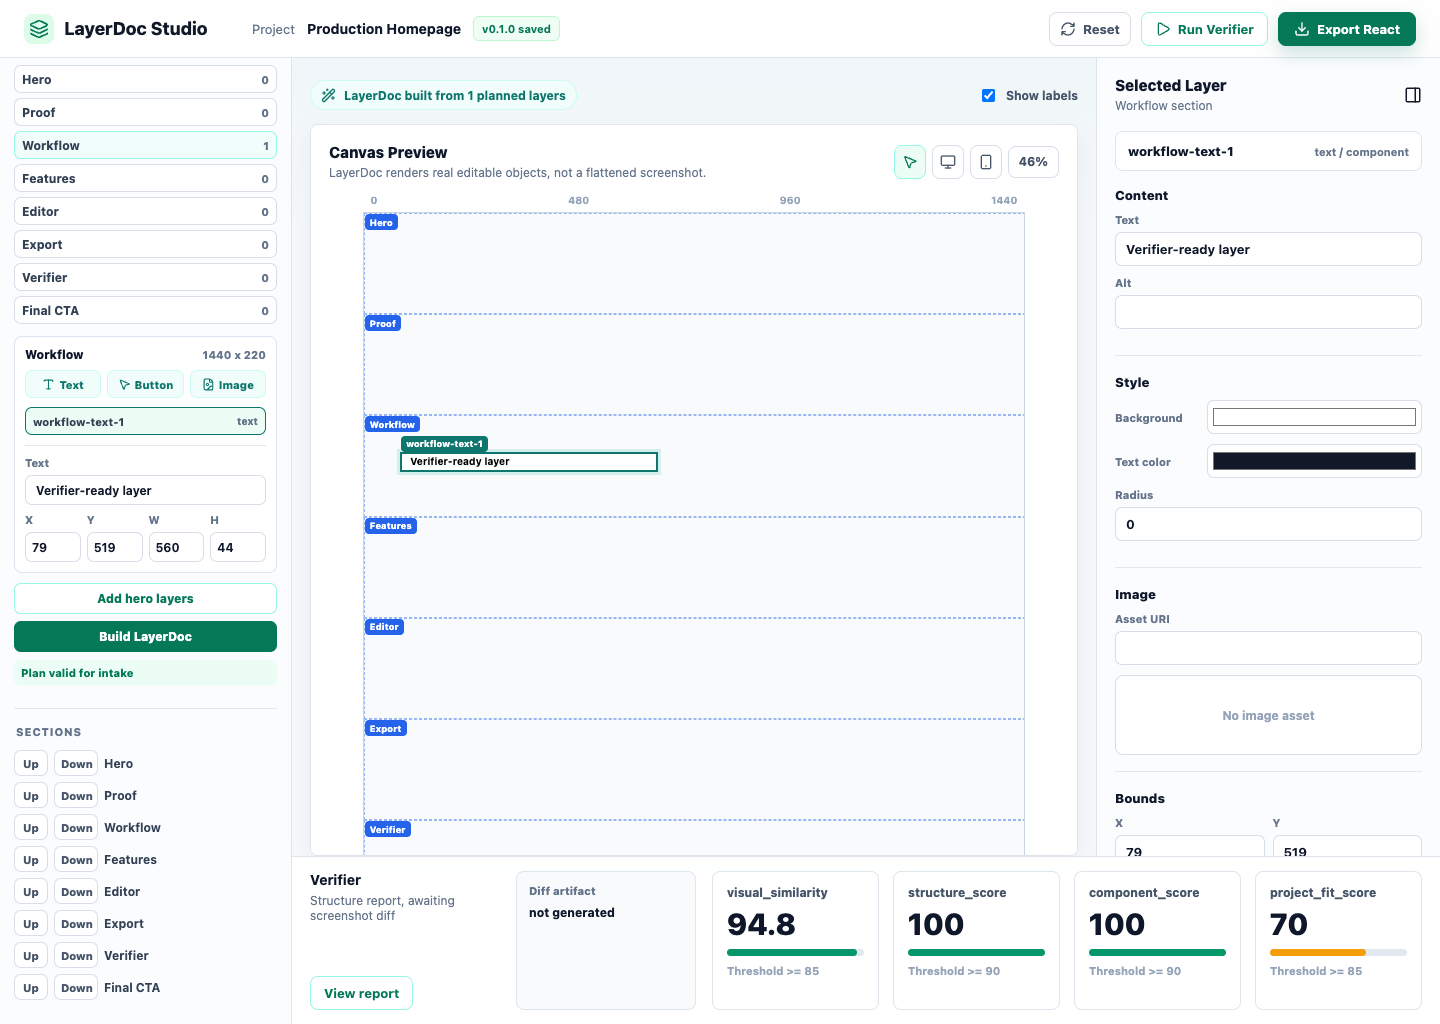
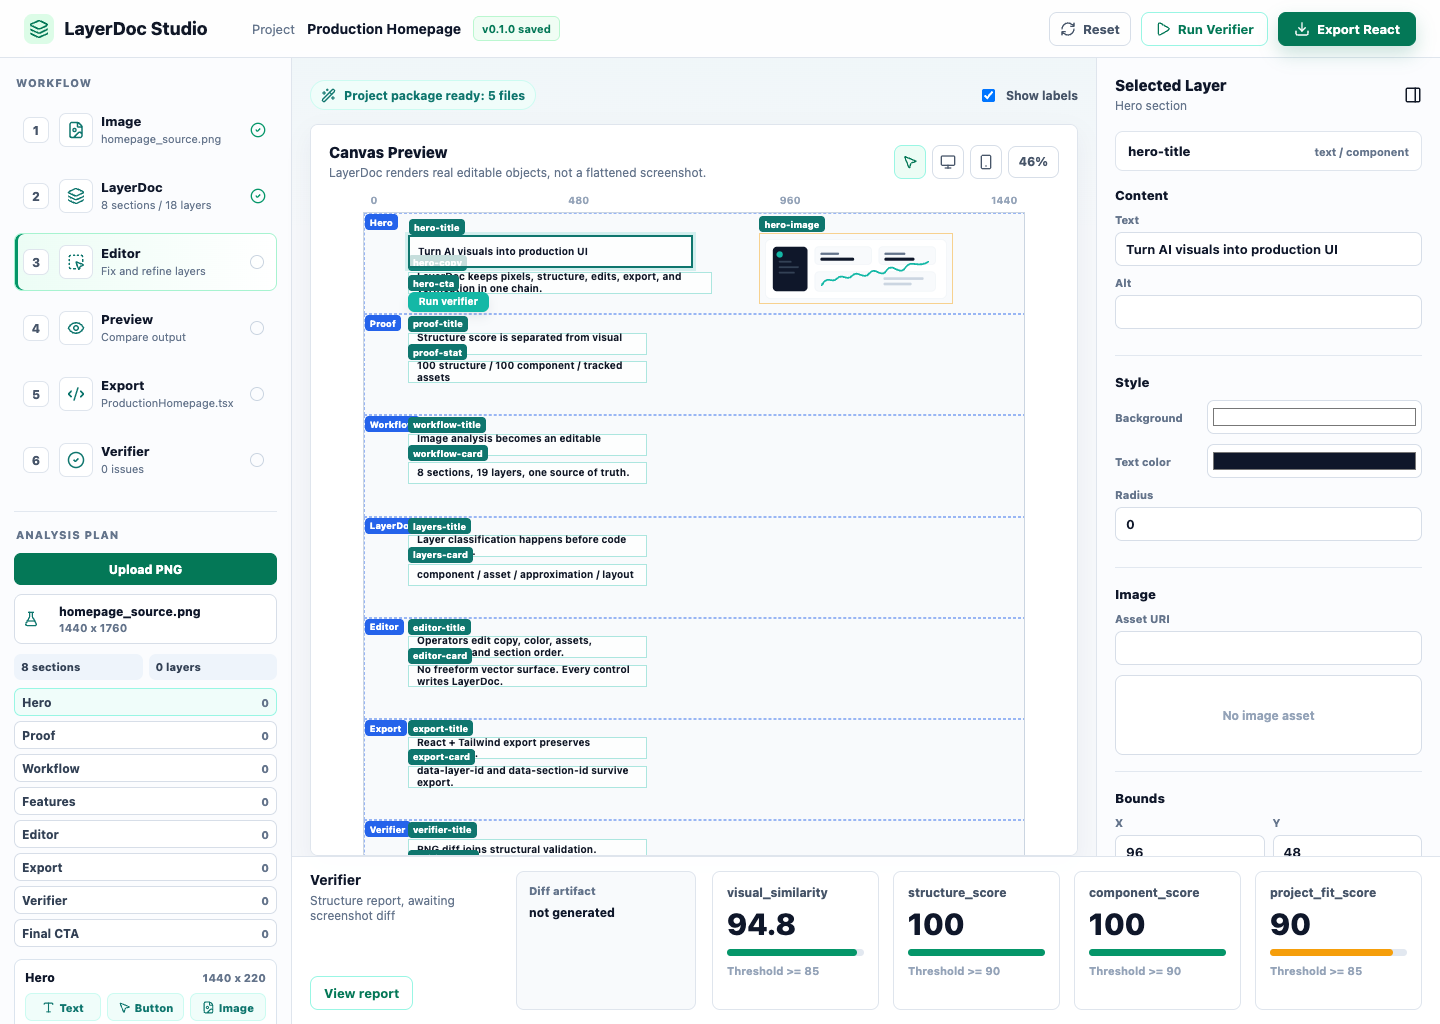
Add project export package

diff --git a/src/exporters/projectPackage.ts b/src/exporters/projectPackage.ts
@@ -1,0 +1,93 @@
+import type { LayerDoc } from "../layerdoc/types.js";
+import { createVerificationReport, type VerificationReport } from "../verifier/report.js";
+import { renderHtmlPreview } from "./htmlPreview.js";
+import { exportReactTailwind } from "./reactTailwind.js";
+
+export interface ProjectExportPackageOptions {
+  componentName: string;
+  packageName?: string;
+  report?: VerificationReport;
+}
+
+export interface ProjectExportFile {
+  path: string;
+  contents: string;
+}
+
+export interface ProjectExportManifest {
+  packageName: string;
+  componentName: string;
+  source: "layerdoc";
+  files: string[];
+  scores: VerificationReport;
+}
+
+export interface ProjectExportPackage {
+  manifest: ProjectExportManifest;
+  files: ProjectExportFile[];
+}
+
+function toKebabCase(value: string): string {
+  return value
+    .replace(/([a-z0-9])([A-Z])/g, "$1-$2")
+    .replace(/[^A-Za-z0-9]+/g, "-")
+    .replace(/^-|-$/g, "")
+    .toLowerCase();
+}
+
+function stableJson(value: unknown): string {
+  return `${JSON.stringify(value, null, 2)}\n`;
+}
+
+function readmeFor(manifest: ProjectExportManifest): string {
+  return `# ${manifest.componentName}
+
+LayerDoc source of truth: \`layerdoc.json\`
+
+Generated assets:
+- \`src/${manifest.componentName}.tsx\`: React + Tailwind component export
+- \`preview.html\`: deterministic HTML verification preview
+- \`manifest.json\`: project package manifest and quality scores
+
+Verifier scores:
+- visual_similarity: ${manifest.scores.visualSimilarity ?? "n/a"}
+- structure_score: ${manifest.scores.structureScore}
+- component_score: ${manifest.scores.componentScore}
+- project_fit_score: ${manifest.scores.projectFitScore}
+`;
+}
+
+/**
+ * Package a LayerDoc into files a downstream project can commit.
+ * LayerDoc remains the editable source; React, preview HTML, and reports are
+ * derived artifacts with traceable layer ids.
+ */
+export function createProjectExportPackage(doc: LayerDoc, options: ProjectExportPackageOptions): ProjectExportPackage {
+  const reactExport = exportReactTailwind(doc, { componentName: options.componentName });
+  const report = options.report ?? createVerificationReport(doc);
+  const packageName = options.packageName ?? toKebabCase(options.componentName);
+  const manifest: ProjectExportManifest = {
+    packageName,
+    componentName: options.componentName,
+    source: "layerdoc",
+    files: [
+      "README.md",
+      "layerdoc.json",
+      "manifest.json",
+      "preview.html",
+      `src/${reactExport.fileName}`
+    ],
+    scores: report
+  };
+
+  return {
+    manifest,
+    files: [
+      { path: "README.md", contents: readmeFor(manifest) },
+      { path: "layerdoc.json", contents: stableJson(doc) },
+      { path: "manifest.json", contents: stableJson(manifest) },
+      { path: "preview.html", contents: renderHtmlPreview(doc) },
+      { path: `src/${reactExport.fileName}`, contents: reactExport.code }
+    ]
+  };
+}

diff --git a/src/app/App.tsx b/src/app/App.tsx
@@ -356,6 +356,25 @@ function SectionOrder({ workspace, onChange }: { workspace: EditorWorkspace; onC
   );
 }
 
+function ProjectExportPanel({ workspace }: { workspace: EditorWorkspace }) {
+  return (
+    <div className="project-export-panel">
+      <div className="sidebar-title">Project Package</div>
+      <div className="export-package-head">
+        <strong>{workspace.projectExport.manifest.packageName}</strong>
+        <span>{workspace.projectExport.files.length} files</span>
+      </div>
+      <div className="export-file-list">
+        {workspace.projectExport.files.map((file) => (
+          <div className="export-file-row" key={file.path}>
+            {file.path}
+          </div>
+        ))}
+      </div>
+    </div>
+  );
+}
+
 function AnalysisPlanPanel({
   intake,
   onChange,
@@ -649,7 +668,7 @@ export function App() {
             <Play size={16} />
             Run Verifier
           </button>
-          <button className="primary-action" type="button" onClick={() => setLastAction(`Export ready: ${workspace.reactExport.fileName}`)}>
+          <button className="primary-action" type="button" onClick={() => setLastAction(`Project package ready: ${workspace.projectExport.files.length} files`)}>
             <Download size={16} />
             Export React
           </button>
@@ -662,6 +681,7 @@ export function App() {
           <WorkspaceStep item={item} index={index} key={item.label} />
         ))}
         <AnalysisPlanPanel intake={intake} onChange={updateIntake} onBuild={buildFromAnalysisPlan} onUploadFile={(file) => void importPngFile(file)} uploadError={uploadError} />
+        <ProjectExportPanel workspace={workspace} />
         <SectionOrder workspace={workspace} onChange={(next) => updateWorkspace(next, "Section order updated")} />
       </aside>
 

diff --git a/src/app/editorWorkspace.ts b/src/app/editorWorkspace.ts
@@ -1,6 +1,7 @@
 import { updateImageLayerAsset, updateLayerBounds, updateLayerStyle, updateTextLayer } from "../editor/operations.js";
 import { moveSection } from "../editor/operations.js";
 import { renderHtmlPreview } from "../exporters/htmlPreview.js";
+import { createProjectExportPackage, type ProjectExportPackage } from "../exporters/projectPackage.js";
 import { exportReactTailwind, type ReactTailwindExportResult } from "../exporters/reactTailwind.js";
 import type { ImageAssetPatch, LayerBoundsPatch } from "../editor/operations.js";
 import type { LayerDoc, LayerNode, LayerStyle } from "../layerdoc/types.js";
@@ -11,6 +12,7 @@ export interface EditorWorkspace {
   selectedLayerId: string;
   previewHtml: string;
   reactExport: ReactTailwindExportResult;
+  projectExport: ProjectExportPackage;
   report: VerificationReport;
 }
 
@@ -27,12 +29,15 @@ function selectedLayerExists(doc: LayerDoc, layerId: string): boolean {
 }
 
 function materialize(doc: LayerDoc, selectedLayerId: string): EditorWorkspace {
+  const report = createVerificationReport(doc, { visualSimilarity: 94.8 });
+
   return {
     doc,
     selectedLayerId,
     previewHtml: renderHtmlPreview(doc),
     reactExport: exportReactTailwind(doc, { componentName: "ProductionHomepage" }),
-    report: createVerificationReport(doc, { visualSimilarity: 94.8 })
+    projectExport: createProjectExportPackage(doc, { componentName: "ProductionHomepage", report }),
+    report
   };
 }
 

diff --git a/src/app/styles.css b/src/app/styles.css
@@ -526,6 +526,58 @@ button {
   background: #fffbeb;
 }
 
+.project-export-panel {
+  margin-top: 22px;
+  padding-top: 16px;
+  border-top: 1px solid #e2e8f0;
+}
+
+.export-package-head {
+  display: grid;
+  grid-template-columns: minmax(0, 1fr) auto;
+  align-items: center;
+  gap: 8px;
+  margin-bottom: 8px;
+  padding: 9px 10px;
+  border: 1px solid #d7dee8;
+  border-radius: 8px;
+  background: #ffffff;
+}
+
+.export-package-head strong {
+  overflow: hidden;
+  color: #0f172a;
+  font-size: 12px;
+  font-weight: 820;
+  text-overflow: ellipsis;
+  white-space: nowrap;
+}
+
+.export-package-head span {
+  color: #047857;
+  font-size: 11px;
+  font-weight: 820;
+}
+
+.export-file-list {
+  display: grid;
+  gap: 5px;
+}
+
+.export-file-row {
+  overflow: hidden;
+  min-height: 26px;
+  padding: 7px 8px;
+  border: 1px solid #d7dee8;
+  border-radius: 7px;
+  color: #334155;
+  background: #f8fafc;
+  font-size: 11px;
+  font-weight: 740;
+  text-overflow: ellipsis;
+  white-space: nowrap;
+}
+
 .section-row {
   display: grid;
   grid-template-columns: 34px 44px 1fr;

diff --git a/src/index.ts b/src/index.ts
@@ -6,6 +6,10 @@ export {
   updateTextLayer
 } from "./editor/operations.js";
 export { renderHtmlPreview } from "./exporters/htmlPreview.js";
+export {
+  createProjectExportPackage
+} from "./exporters/projectPackage.js";
+export { writeProjectExportPackage } from "./exporters/projectPackageWriter.js";
 export { exportReactTailwind } from "./exporters/reactTailwind.js";
 export {
   addAnalysisLayer,
@@ -53,6 +57,16 @@ export type {
   VerificationGates
 } from "./verifier/run.js";
 export type { PngSnapshotComparisonInput, PngSnapshotComparisonResult } from "./verifier/visualDiff.js";
+export type {
+  ProjectExportFile,
+  ProjectExportManifest,
+  ProjectExportPackage,
+  ProjectExportPackageOptions
+} from "./exporters/projectPackage.js";
+export type {
+  WrittenProjectExportFile,
+  WrittenProjectExportPackage
+} from "./exporters/projectPackageWriter.js";
 export type { ReactTailwindExportOptions, ReactTailwindExportResult } from "./exporters/reactTailwind.js";
 export type {
   AnalysisLayerPatch,

diff --git a/src/exporters/projectPackageWriter.ts b/src/exporters/projectPackageWriter.ts
@@ -1,0 +1,31 @@
+import { mkdirSync, writeFileSync } from "node:fs";
+import { dirname, join } from "node:path";
+
+import type { ProjectExportPackage } from "./projectPackage.js";
+
+export interface WrittenProjectExportFile {
+  relativePath: string;
+  absolutePath: string;
+}
+
+export interface WrittenProjectExportPackage {
+  rootDir: string;
+  files: WrittenProjectExportFile[];
+}
+
+export function writeProjectExportPackage(projectPackage: ProjectExportPackage, targetDir: string): WrittenProjectExportPackage {
+  const files = projectPackage.files.map((file) => {
+    const absolutePath = join(targetDir, file.path);
+    mkdirSync(dirname(absolutePath), { recursive: true });
+    writeFileSync(absolutePath, file.contents);
+    return {
+      relativePath: file.path,
+      absolutePath
+    };
+  });
+
+  return {
+    rootDir: targetDir,
+    files
+  };
+}
